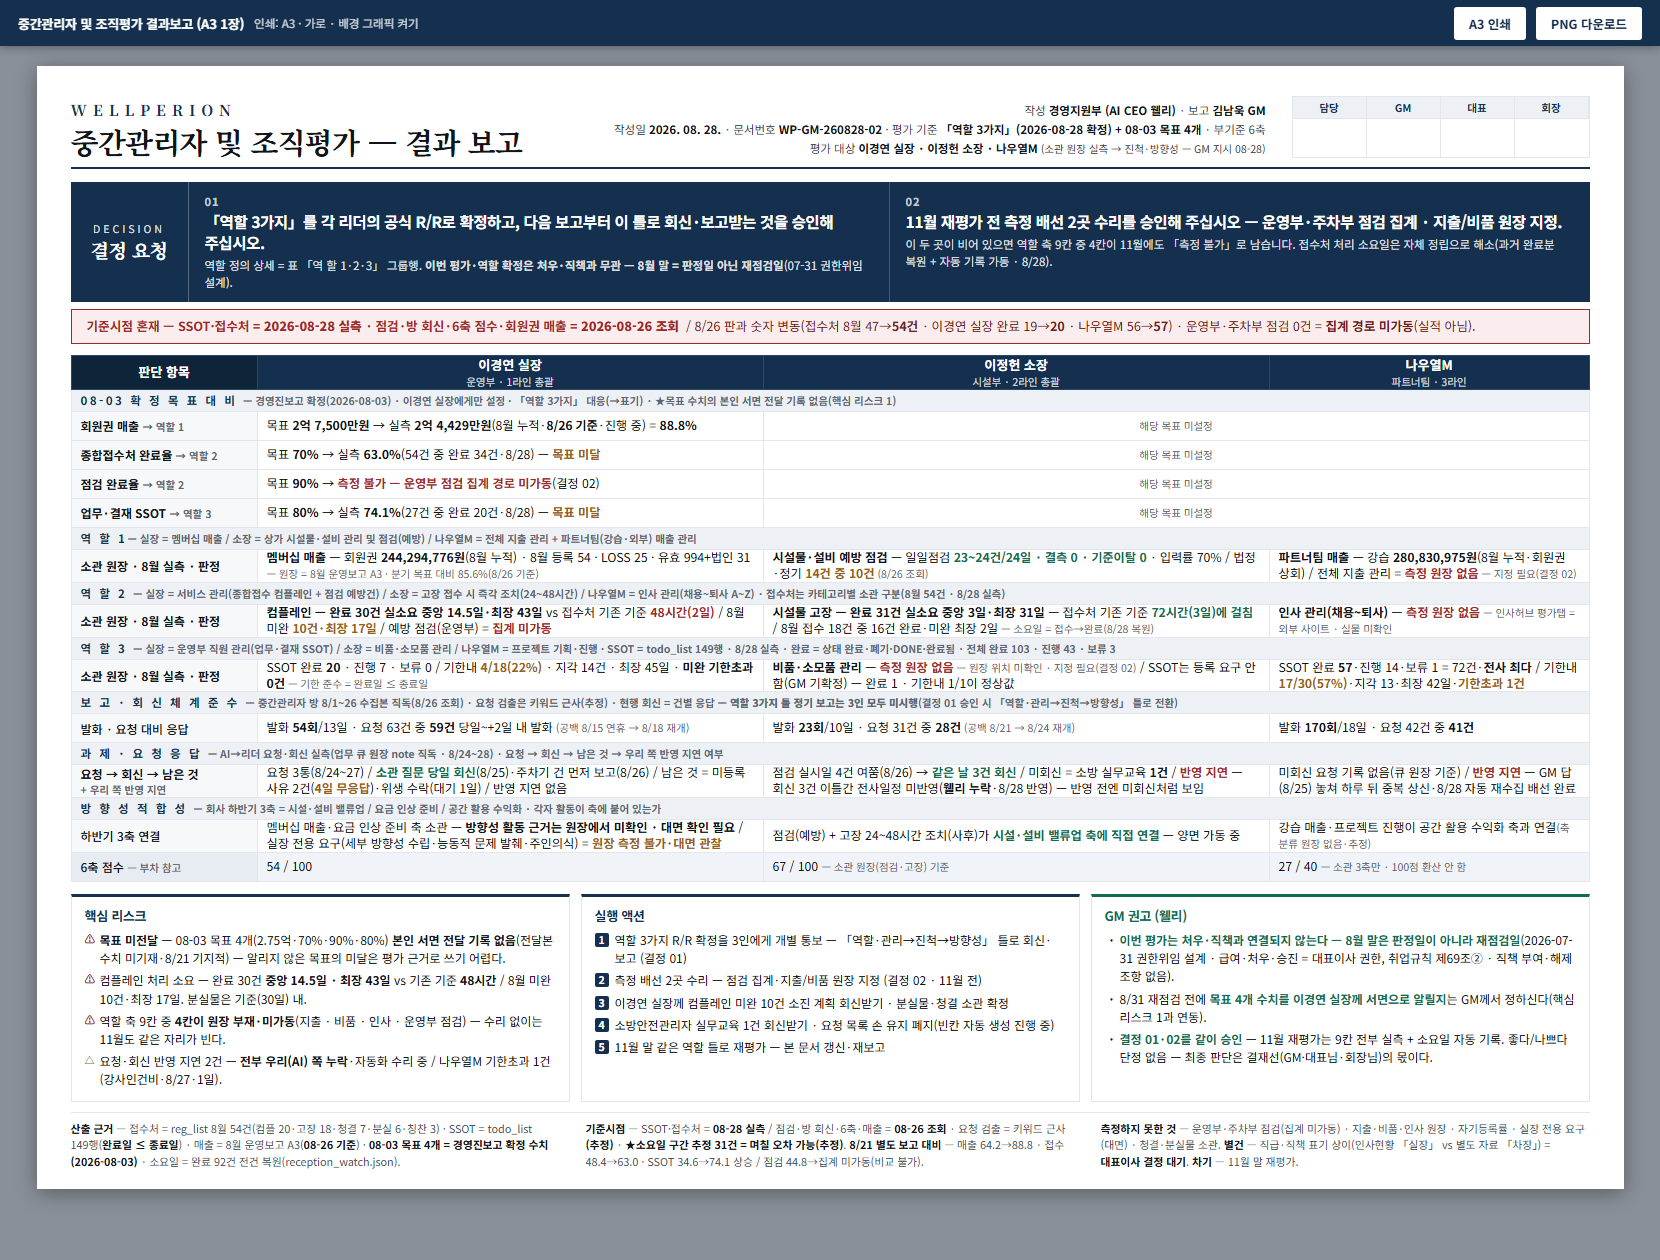
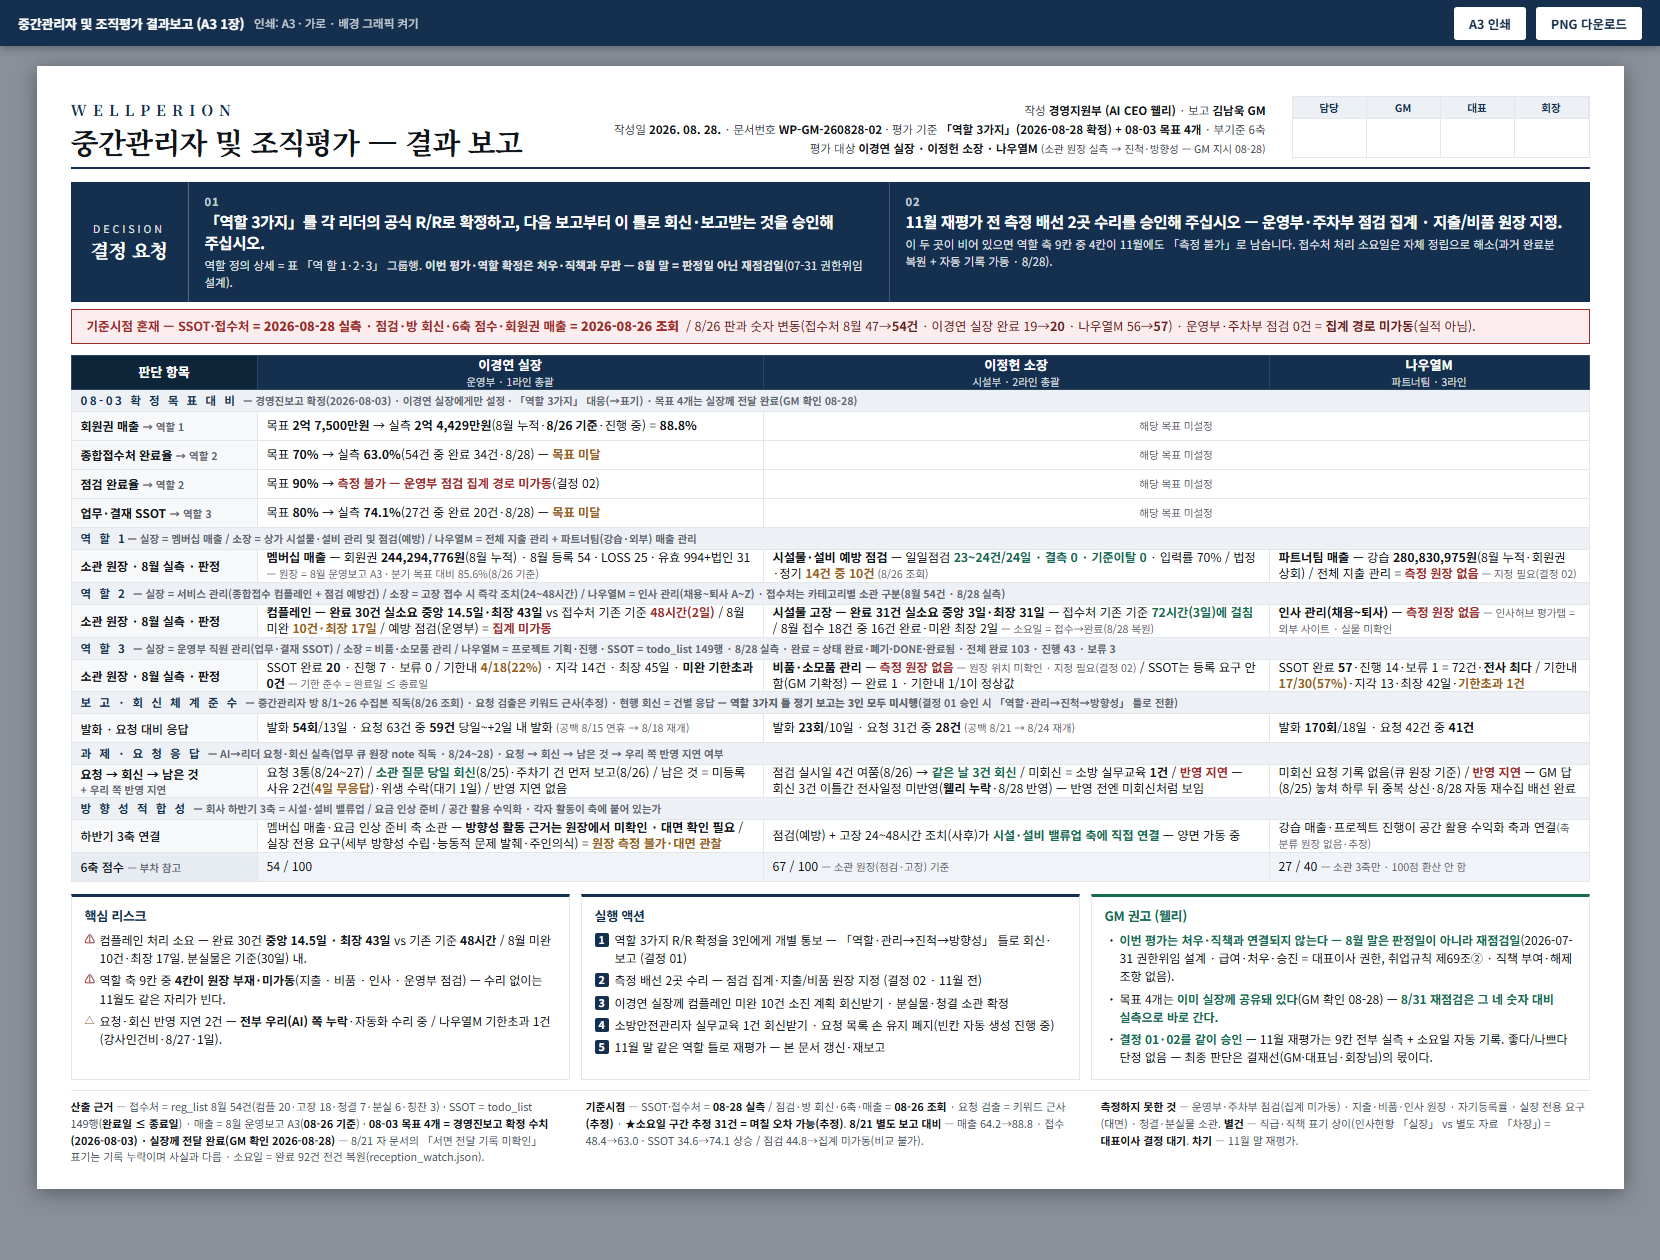
docs(ceo): 정정 — 08-03 목표 4개는 실장께 전달 완료(GM 확인 2026-08-28), 목표 미전달 리스크 철회

Changed region(s): [[0.0307, 0.7429, 0.9524, 0.9286], [0.6759, 0.7738, 0.9524, 0.8357], [0.3994, 0.3095, 0.5223, 0.3405]]

diff --git a/3. 웰페리온 가이드/reports/260828_중간관리자_조직평가_결과보고_A3.html b/3. 웰페리온 가이드/reports/260828_중간관리자_조직평가_결과보고_A3.html
@@ -179,7 +179,7 @@
       </tr>
     </thead>
     <tbody>
-      <tr class="grp"><td colspan="4">08-03 확 정 목 표 대 비 <span style="letter-spacing:0" class="est">— 경영진보고 확정(2026-08-03) · 이경연 실장에게만 설정 · 「역할 3가지」 대응(→표기) · ★목표 수치의 본인 서면 전달 기록 없음(핵심 리스크 1)</span></td></tr>
+      <tr class="grp"><td colspan="4">08-03 확 정 목 표 대 비 <span style="letter-spacing:0" class="est">— 경영진보고 확정(2026-08-03) · 이경연 실장에게만 설정 · 「역할 3가지」 대응(→표기) · 목표 4개는 실장께 전달 완료(GM 확인 08-28)</span></td></tr>
       <tr><td class="k strong">회원권 매출 <span class="est">→ 역할 1</span></td>
         <td>목표 <b>2억 7,500만원</b> → 실측 <b>2억 4,429만원</b>(8월 누적·<b>8/26 기준</b>·진행 중) = <b>88.8%</b></td>
         <td colspan="2" class="ctr est">해당 목표 미설정</td></tr>
@@ -243,7 +243,6 @@
     <div class="box">
       <h3>핵심 리스크</h3>
       <ul>
-        <li class="r1"><b>목표 미전달</b> — 08-03 목표 4개(2.75억·70%·90%·80%) <b>본인 서면 전달 기록 없음</b>(전달본 수치 미기재·8/21 기지적) — 알리지 않은 목표의 미달은 평가 근거로 쓰기 어렵다.</li>
         <li class="r1">컴플레인 처리 소요 — 완료 30건 <b>중앙 14.5일 · 최장 43일</b> vs 기존 기준 <b>48시간</b> / 8월 미완 10건·최장 17일. 분실물은 기준(30일) 내.</li>
         <li class="r1">역할 축 9칸 중 <b>4칸이 원장 부재·미가동</b>(지출 · 비품 · 인사 · 운영부 점검) — 수리 없이는 11월도 같은 자리가 빈다.</li>
         <li class="r2">요청·회신 반영 지연 2건 — <b>전부 우리(AI) 쪽 누락</b>·자동화 수리 중 / 나우열M 기한초과 1건(강사인건비·8/27·1일).</li>
@@ -263,7 +262,7 @@
       <h3>GM 권고 (웰리)</h3>
       <ul>
         <li><b>이번 평가는 처우·직책과 연결되지 않는다 — 8월 말은 판정일이 아니라 재점검일</b>(2026-07-31 권한위임 설계 · 급여·처우·승진 = 대표이사 권한, 취업규칙 제69조② · 직책 부여·해제 조항 없음).</li>
-        <li>8/31 재점검 전에 <b>목표 4개 수치를 이경연 실장께 서면으로 알릴지</b>는 GM께서 정하신다(핵심 리스크 1과 연동).</li>
+        <li>목표 4개는 <b>이미 실장께 공유돼 있다</b>(GM 확인 08-28) — <b>8/31 재점검은 그 네 숫자 대비 실측으로 바로 간다.</b></li>
         <li><b>결정 01·02를 같이 승인</b> — 11월 재평가는 9칸 전부 실측 + 소요일 자동 기록. 좋다/나쁘다 단정 없음 — 최종 판단은 결재선(GM·대표님·회장님)의 몫이다.</li>
       </ul>
     </div>
@@ -271,7 +270,7 @@
 
   <!-- ⑤ 각주 -->
   <div class="foot">
-    <div><b>산출 근거</b> — 접수처 = reg_list 8월 54건(컴플 20·고장 18·청결 7·분실 6·칭찬 3) · SSOT = todo_list 149행(<b>완료일 ≤ 종료일</b>) · 매출 = 8월 운영보고 A3(<b>08-26 기준</b>) · <b>08-03 목표 4개 = 경영진보고 확정 수치(2026-08-03)</b> · 소요일 = 완료 92건 전건 복원(reception_watch.json).</div>
+    <div><b>산출 근거</b> — 접수처 = reg_list 8월 54건(컴플 20·고장 18·청결 7·분실 6·칭찬 3) · SSOT = todo_list 149행(<b>완료일 ≤ 종료일</b>) · 매출 = 8월 운영보고 A3(<b>08-26 기준</b>) · <b>08-03 목표 4개 = 경영진보고 확정 수치(2026-08-03) · 실장께 전달 완료(GM 확인 2026-08-28)</b> — 8/21 자 문서의 「서면 전달 기록 미확인」 표기는 기록 누락이며 사실과 다름 · 소요일 = 완료 92건 전건 복원(reception_watch.json).</div>
     <div><b>기준시점</b> — SSOT·접수처 = <b>08-28 실측</b> / 점검·방 회신·6축·매출 = <b>08-26 조회</b> · 요청 검출 = 키워드 근사<b>(추정)</b> · <b>★소요일 구간 추정 31건 = 며칠 오차 가능(추정)</b>. <b>8/21 별도 보고 대비</b> — 매출 64.2→88.8 · 접수 48.4→63.0 · SSOT 34.6→74.1 상승 / 점검 44.8→집계 미가동(비교 불가).</div>
     <div><b>측정하지 못한 것</b> — 운영부·주차부 점검(집계 미가동) · 지출·비품·인사 원장 · 자기등록률 · 실장 전용 요구(대면) · 청결·분실물 소관. <b>별건</b> — 직급·직책 표기 상이(인사현황 「실장」 vs 별도 자료 「차장」) = <b>대표이사 결정 대기</b>. <b>차기</b> — 11월 말 재평가.</div>
   </div>
